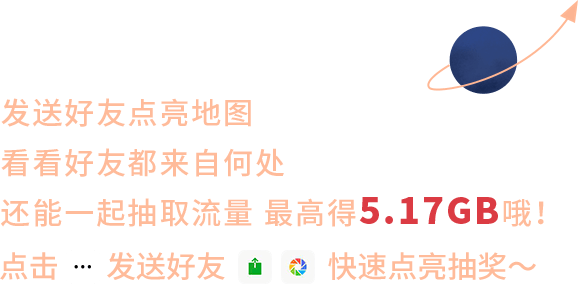
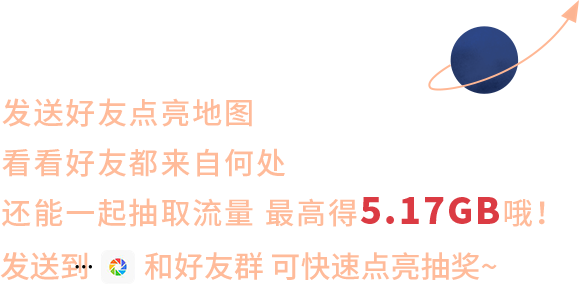
嗯嗯嗯

diff --git a/css/styles.less b/css/styles.less
@@ -76,6 +76,14 @@ html,body{
                         width: 5.79rem;
                         height:1.26rem;
                         color: #ffb794;
+                        >p{
+                            >span{
+                                font-size: .45rem;
+                                color: #ec1e1e;
+                                font-weight: bolder;
+                            }
+                        }
+                       
                     } 
                 }
                 &:nth-child(2){
@@ -607,20 +615,22 @@ html,body{
                     >a{
                         display: inline-block;
                         border: solid 1px #000;
-                        width:4.5rem;
+                        width:4.2rem;
                         height: .83rem;
                         text-align: center;
                         line-height: .83rem;
-                        font-size: .26rem;
                         color: #d60e0e;
                         border-radius: .415rem;
                         background-color: #ffb794;
-                        animation:mymove 1.3s infinite;
-                        -webkit-animation:mymove 1.3s infinite; /*Safari and Chrome*/
+                        animation:mymove 1.8s infinite;
+                        -webkit-animation:mymove 1.8s infinite; /*Safari and Chrome*/
                         animation-direction:alternate;/*轮流反向播放动画。*/
                         animation-timing-function: ease-in-out; /*动画的速度曲线*/
                         font-size: .4rem;
                         font-weight: 540;
+                        >span{
+                            font-weight: bolder;
+                        }
                     }
                 }
                 &:nth-child(3){
@@ -1415,6 +1425,13 @@ html,body{
                       &:nth-child(5){
                           margin-top: .4rem;
                       }
+                      &:nth-child(6){
+                          >span{
+                            font-size: .4rem;
+                            color: #ec1e1e;
+                            font-weight: bolder;
+                          }
+                        }
                     }
                     >a{
                         display: inline-block;
@@ -1422,8 +1439,6 @@ html,body{
                         height: 1.34rem;
                         background-color: rgb(189, 28, 28);
                         margin: .51rem auto 0;
-                        // background: url(../images/cm_10GB.gif) center no-repeat;
-                        // background-size: cover;
                     }
                 }
                 >a{
@@ -1440,6 +1455,11 @@ html,body{
                     border: solid 1px #000;
                     box-sizing: border-box;
                     color: #000;
+                    >span{
+                        font-size: .3rem;
+                        color: #ec1e1e;
+                        font-weight: bolder;
+                      }
                 }
             }
         }
@@ -1455,14 +1475,14 @@ html,body{
                 }
                 &:nth-child(2){
                     width: 7.5rem;
-                    height:4.64rem;
-                    background: url('../images/home_02.png') no-repeat;
+                    height:3.49rem;
+                    background: url('../images/friend_02.png') no-repeat;
                     background-size: cover;
                 }
                 &:nth-child(3){
                     width: 7.5rem;
-                    height:3.18rem;
-                    background: url('../images/home_03.png') no-repeat;
+                    height:4.79rem;
+                    background: url('../images/friend_03.png') no-repeat;
                     background-size: cover;
                     position: relative;
                     >div{
@@ -1470,17 +1490,14 @@ html,body{
                         flex-direction: column;
                         justify-content: center;
                         align-items: center;
-                        padding: .2rem .23rem;
-                        width: 6.5rem;
-                        height: 2.4rem;
+                        width: 6.46rem;
+                        height: 2.73rem;
                         font-size: .24rem;
                         color: #000;
-                        margin: 0 auto .45rem;
-                        border: solid 1px #03112b;
-                        box-sizing: border-box;
-                        border-radius: .2rem;
-                        background-color: #ff746b;
                         font-weight: bolder;
+                        background: url('../images/friend_01.png') no-repeat;
+                        background-size: cover;
+                        margin: 0 auto;
                         >p{
                             &:nth-child(2){
                                 margin: .1rem 0;
@@ -1498,6 +1515,7 @@ html,body{
                         position: absolute;
                         left: 0;
                         right: 0;
+                        bottom: .96rem;
                         margin: auto;
                         display: inline-block;
                         width:3.01rem;
@@ -1547,6 +1565,13 @@ html,body{
                         width: 5.79rem;
                         height:1.26rem;
                         color: #ffb794;
+                        >p{
+                            >span{
+                                font-size: .45rem;
+                                color: #ec1e1e;
+                                font-weight: bolder;
+                            }
+                        }
                     } 
                 }
                 &:nth-child(2){

diff --git a/css/styles.css b/css/styles.css
@@ -84,6 +84,12 @@ body section.choose > div:nth-child(1) > div {
   height: 1.26rem;
   color: #ffb794;
 }
+html section.choose > div:nth-child(1) > div > p > span,
+body section.choose > div:nth-child(1) > div > p > span {
+  font-size: .45rem;
+  color: #ec1e1e;
+  font-weight: bolder;
+}
 html section.choose > div:nth-child(2),
 body section.choose > div:nth-child(2) {
   width: 7.5rem;
@@ -583,16 +589,15 @@ html section.main > div:nth-child(2) > a,
 body section.main > div:nth-child(2) > a {
   display: inline-block;
   border: solid 1px #000;
-  width: 4.5rem;
+  width: 4.2rem;
   height: .83rem;
   text-align: center;
   line-height: .83rem;
-  font-size: .26rem;
   color: #d60e0e;
   border-radius: .415rem;
   background-color: #ffb794;
-  animation: mymove 1.3s infinite;
-  -webkit-animation: mymove 1.3s infinite;
+  animation: mymove 1.8s infinite;
+  -webkit-animation: mymove 1.8s infinite;
   /*Safari and Chrome*/
   animation-direction: alternate;
   /*轮流反向播放动画。*/
@@ -600,6 +605,10 @@ body section.main > div:nth-child(2) > a {
   /*动画的速度曲线*/
   font-size: .4rem;
   font-weight: 540;
+}
+html section.main > div:nth-child(2) > a > span,
+body section.main > div:nth-child(2) > a > span {
+  font-weight: bolder;
 }
 html section.main > div:nth-child(3),
 body section.main > div:nth-child(3) {
@@ -1417,6 +1426,12 @@ html section.pop.ownmap > div > p:nth-child(5),
 body section.pop.ownmap > div > p:nth-child(5) {
   margin-top: .4rem;
 }
+html section.pop.ownmap > div > p:nth-child(6) > span,
+body section.pop.ownmap > div > p:nth-child(6) > span {
+  font-size: .4rem;
+  color: #ec1e1e;
+  font-weight: bolder;
+}
 html section.pop.ownmap > div > a,
 body section.pop.ownmap > div > a {
   display: inline-block;
@@ -1441,6 +1456,12 @@ body section.pop.ownmap > a {
   box-sizing: border-box;
   color: #000;
 }
+html section.pop.ownmap > a > span,
+body section.pop.ownmap > a > span {
+  font-size: .3rem;
+  color: #ec1e1e;
+  font-weight: bolder;
+}
 html section.fri_home,
 body section.fri_home {
   display: none;
@@ -1455,15 +1476,15 @@ body section.fri_home > div:nth-child(1) {
 html section.fri_home > div:nth-child(2),
 body section.fri_home > div:nth-child(2) {
   width: 7.5rem;
-  height: 4.64rem;
-  background: url('../images/home_02.png') no-repeat;
+  height: 3.49rem;
+  background: url('../images/friend_02.png') no-repeat;
   background-size: cover;
 }
 html section.fri_home > div:nth-child(3),
 body section.fri_home > div:nth-child(3) {
   width: 7.5rem;
-  height: 3.18rem;
-  background: url('../images/home_03.png') no-repeat;
+  height: 4.79rem;
+  background: url('../images/friend_03.png') no-repeat;
   background-size: cover;
   position: relative;
 }
@@ -1473,17 +1494,14 @@ body section.fri_home > div:nth-child(3) > div {
   flex-direction: column;
   justify-content: center;
   align-items: center;
-  padding: .2rem .23rem;
-  width: 6.5rem;
-  height: 2.4rem;
+  width: 6.46rem;
+  height: 2.73rem;
   font-size: .24rem;
   color: #000;
-  margin: 0 auto .45rem;
-  border: solid 1px #03112b;
-  box-sizing: border-box;
-  border-radius: .2rem;
-  background-color: #ff746b;
   font-weight: bolder;
+  background: url('../images/friend_01.png') no-repeat;
+  background-size: cover;
+  margin: 0 auto;
 }
 html section.fri_home > div:nth-child(3) > div > p:nth-child(2),
 body section.fri_home > div:nth-child(3) > div > p:nth-child(2) {
@@ -1501,6 +1519,7 @@ body section.fri_home > div:nth-child(3) > a {
   position: absolute;
   left: 0;
   right: 0;
+  bottom: .96rem;
   margin: auto;
   display: inline-block;
   width: 3.01rem;
@@ -1551,6 +1570,12 @@ body section.fri_choose > div:nth-child(1) > div {
   width: 5.79rem;
   height: 1.26rem;
   color: #ffb794;
+}
+html section.fri_choose > div:nth-child(1) > div > p > span,
+body section.fri_choose > div:nth-child(1) > div > p > span {
+  font-size: .45rem;
+  color: #ec1e1e;
+  font-weight: bolder;
 }
 html section.fri_choose > div:nth-child(2),
 body section.fri_choose > div:nth-child(2) {

diff --git a/friend.html b/friend.html
@@ -70,7 +70,10 @@
         './images/share_01.png',
         './images/tc_last.png',
         './images/tc_yi_01.png',
-        './images/tc_yi_03.png'
+        './images/tc_yi_03.png',
+        './images/friend_01.png',
+        './images/friend_02.png',
+        './images/friend_03.png'
     ], function (percentage) {
         var percentT = percentage * 100;
         $('#loader_info').html((parseInt(percentT)) + '%');
@@ -113,8 +116,9 @@
         <div>
             <a href="javascript:void(0);" class="rule">活动规则</a>
             <div>
-                <p>选择您的家乡去点亮，发给好友点亮TA的家乡</p>
-                <p> 还能一起赢取流量哦</p>
+                <p>朋友，你来自哪呢？快去点亮你的家乡吧！</p>
+                <p>邀请朋友一起点亮，在茫茫人海中相互了解</p>
+                <p>还能赢取<span>5.17GB</span>流量哦~ </p>
             </div>
         </div>
         <div>
@@ -134,15 +138,15 @@
     </section>
     <!-- 好友提示及自生成地图 -->
     <section class="pop ownmap">
-        <div>
+        <div> 
             <p>您已为好友</p>
             <p>成功点亮地图</p>
             <p class="ownmap_conternt">同时也生成了</p>
-            <p class="ownmap_conternt">自己的地图人脉网哦~</p>
-            <p>快来看看自己的地图吧！</p>
-            <p>有机会抽取5.17GB</p>
+            <p class="ownmap_conternt">自己的人脉地图哦~</p>
+            <p>快来一起点亮吧</p>
+            <p> 最高可得<span>5.17GB</span>流量！</p>
         </div>
-        <a href="javascript:void(0);" id="mymap">我的人脉地图</a>
+        <a href="javascript:void(0);" id="mymap">点亮抽<span> 5.17GB</span></a>
     </section>
      <!-- 活动规则 -->
      <section class="pop rulecontent">

diff --git a/index.html b/index.html
@@ -71,7 +71,10 @@
             './images/share_01.png',
             './images/tc_last.png',
             './images/tc_yi_01.png',
-            './images/tc_yi_03.png'
+            './images/tc_yi_03.png',
+            './images/friend_01.png',
+            './images/friend_02.png',
+            './images/friend_03.png'
         ], function (percentage) {
             var percentT = percentage * 100;
             $('#loader_info').html((parseInt(percentT)) + '%');
@@ -122,8 +125,9 @@
         <div>
             <a href="javascript:void(0);" class="rule">活动规则</a>
             <div>     
-                <p>嗨，朋友，你来自哪呢？快去点亮你的家乡吧！</p>
-                <p>邀请朋友一起点亮，在茫茫人海中相互了解，还能赢取5.17GB流量哦~</p>
+                <p>朋友，你来自哪呢？快去点亮你的家乡吧！</p>
+                <p>邀请朋友一起点亮，在茫茫人海中相互了解</p>
+                <p>还能赢取<span>5.17GB</span>流量哦~ </p>
             </div>
         </div>
         <div>
@@ -213,7 +217,7 @@
         </div>
         <div>
             <!-- <a href="javascript:void(0);" id="sendfriend">发送好友点亮出生地</a> -->
-            <a href="javascript:void(0);" id="goto">点亮地图抽取5.17</a>
+            <a href="javascript:void(0);" id="goto">点亮抽取<span>5.17GB</span> </a>
         </div>
         <div>
             <div>
@@ -284,7 +288,7 @@
     </section>
     <!-- 分享 -->
     <section class="share">
-        <div> </div>
+        <div></div>
     </section>
     <!-- 绑定页 -->
     <section class="bind">

diff --git a/js/index.js b/js/index.js
@@ -170,14 +170,6 @@ $(document).ready(function () {
                     $('.tc_1').show();
                 } else {
                     //异网中流量 
-                    // if ($(current_clickclass).text() == '点击查看') {
-                    //     // alert('查看奖励')
-                    //     showMask();
-                    //     $('.tc_5').show();
-                    // } else {
-                    //     showMask();
-                    //     $('.tc_2').show();
-                    // }
                      if ($(current_clickclass).text() == '点击查看') {
                         showMask();
                         // alert('查看奖励')
@@ -236,7 +228,6 @@ $(document).ready(function () {
                         $('#cm_aimg').css('background-color','#cc2e38')
                 }
                 // 异网（移动王卡）
-
                 $('#yi_aimg').css('background-image','url(images/cm_yidongw.gif)').attr('href',' https://service.bj.10086.cn/m/num/num/commonNum/showFontPage.action?busiCode=YDWKWXYW'); 
                 jiangli();
 			}
